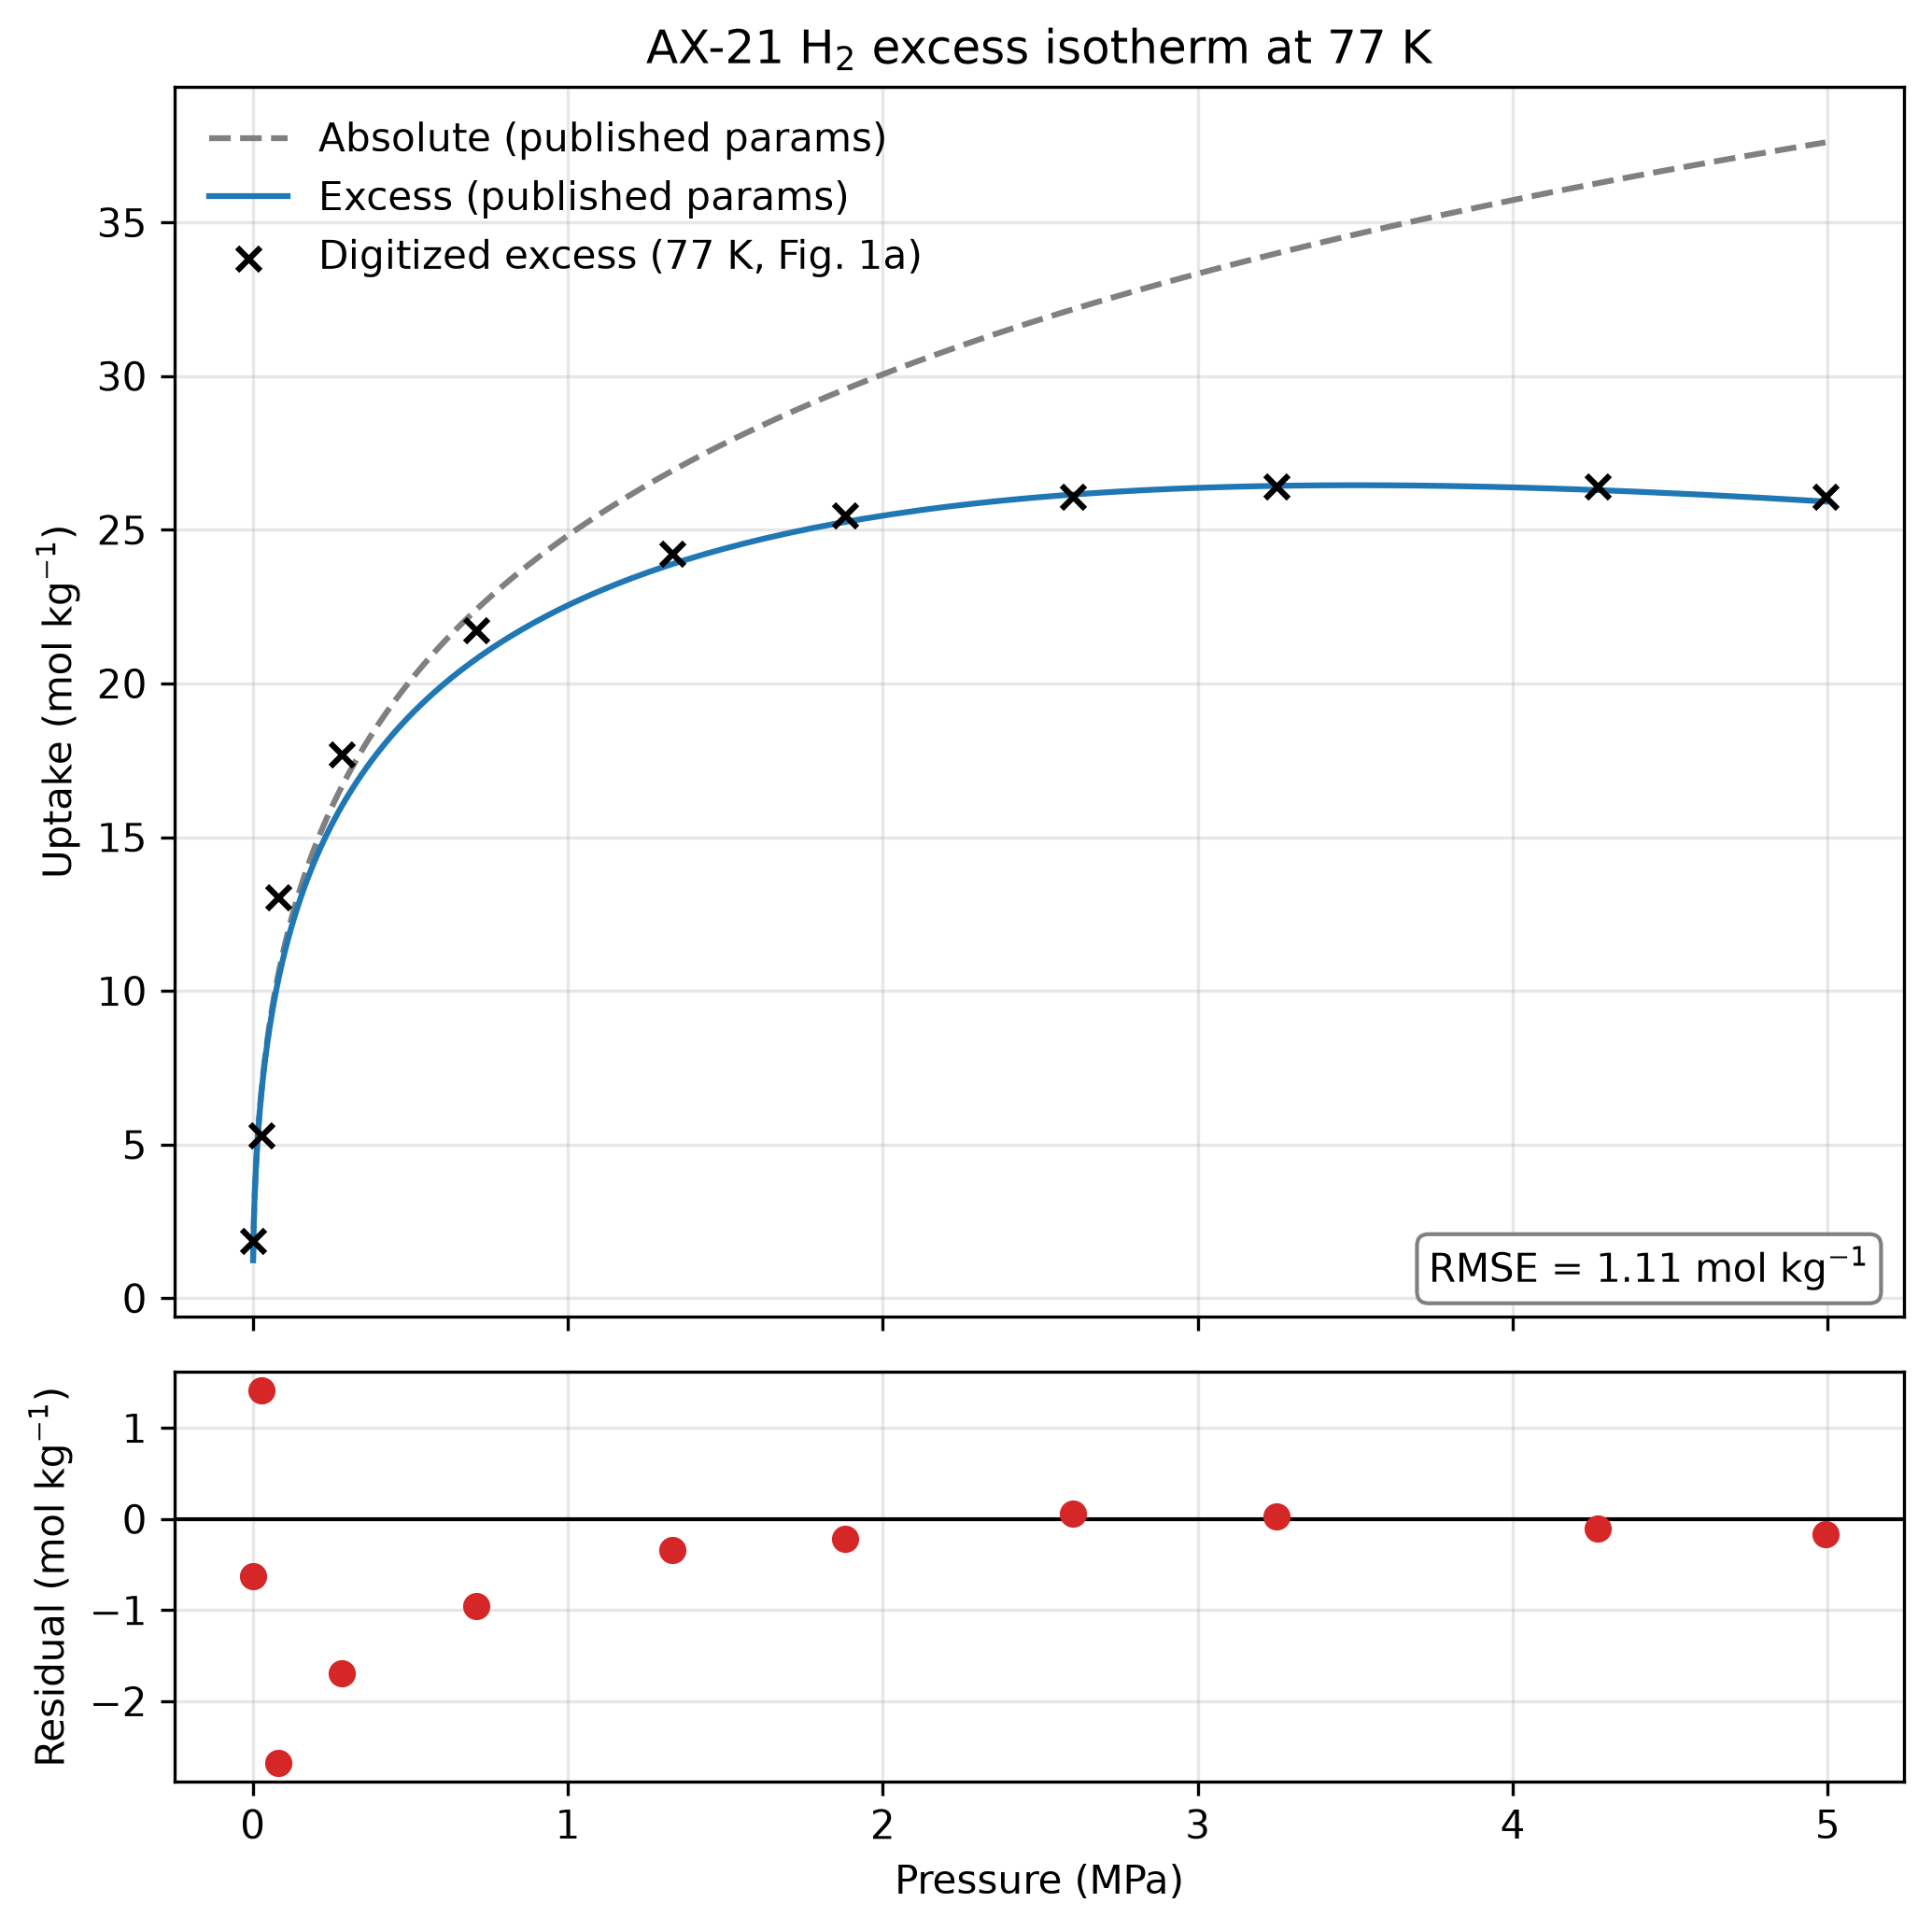
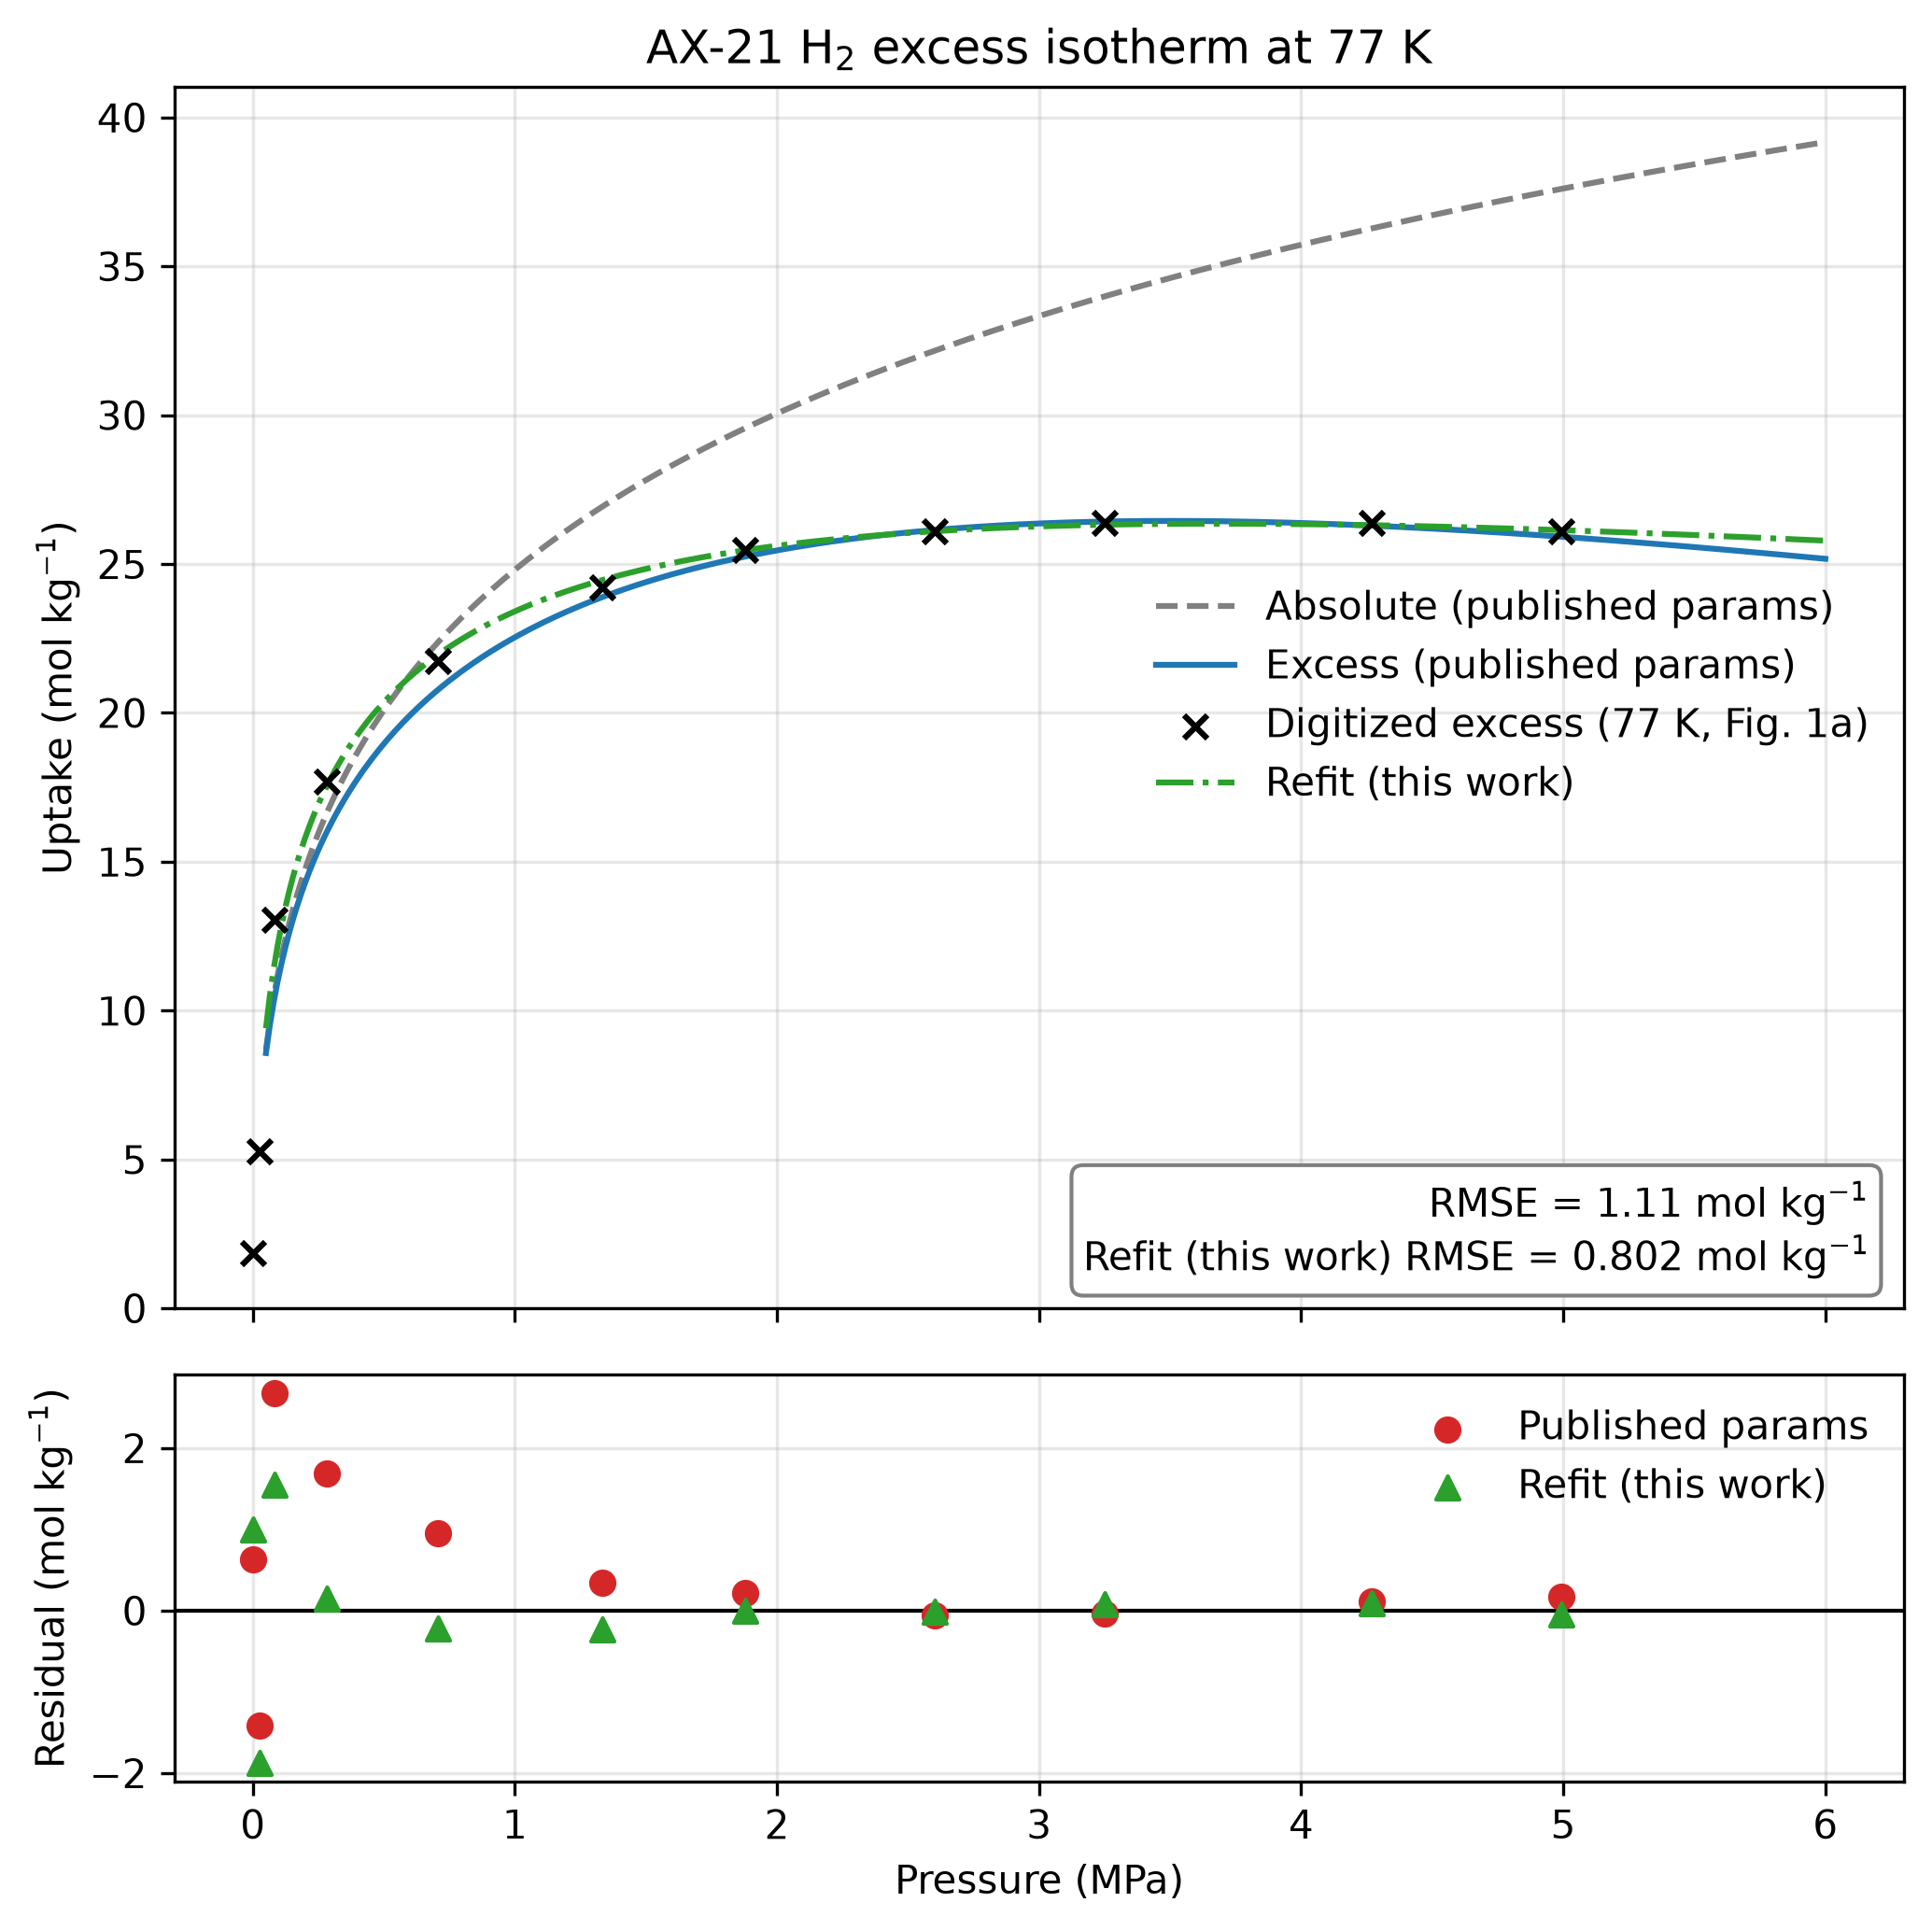
Refit AX-21 77 K isotherm, complete F2, record Gate V2 recovery FAIL with diagnosis

diff --git a/docs/validation_plan.md b/docs/validation_plan.md
@@ -31,14 +31,36 @@
 - Pre-registered threshold (UNCHANGED): RMSE < 1.5 mol/kg
 - Measured: RMSE = 1.11 mol/kg -> PASS
 - Excess-maximum gated test (tests/test_isotherm.py, @pytest.mark.validation): green via `pytest -m validation`
-- Author: Avin (Class-A).
+  ### Gate V2 — parameter recovery (pre-registered 2026-07-02). 
+  Beta fixed at 18.9 J/(mol·K) (single-T: alpha, beta enter only as alpha+beta·T). PASS iff n_max in 53.7–89.5 mol/kg, alpha in 2156–4004 J/mol, v_a in 9.30e-4–1.93e-3 m³/kg, log10(p0/Pa) in 8.467–9.867, and refit RMSE ≤ Day 7 published-parameter RMSE. 
+  Verdict (2026-07-02): FAIL. Recovered n_max 29.9 mol/kg (band 53.7–89.5), alpha 1705 J/mol
+(band 2156–4004), log10(p0/Pa) 7.000 — the imposed lower fit bound (band 8.467–9.867),
+v_a 3.83e-4 m³/kg (band 9.30e-4–1.93e-3): all four outside the pre-registered bands. The
+RMSE criterion alone passed (0.802 ≤ 1.109 mol/kg). Bands unchanged.
+Interpretation: implementation error is excluded — synthetic-data tests recover known
+parameters within 2σ, and the refit RMSE improves on the published-parameter RMSE as it
+structurally must. The failure is a property of the data: with 11 points on a single 77 K
+isotherm the four-parameter likelihood is a ridge (pairwise correlations 0.91–0.99,
+cond(JᵀJ) ≈ 1e14, anticipated in model_derivations §4.4), and the optimizer, started at
+the published values, descended it to a corner solution at the p0 bound, gaining
+~0.3 mol/kg RMSE mostly at the low-pressure knee. Reported 1σ values are additionally
+invalid at an active bound. The gate establishes practical non-identifiability of the
+individual parameters from one isotherm; the curve is identifiable (part 1 PASS), the
+parameter vector is not.
+Post-hoc diagnostic (labeled, no band applied): with p0 also fixed at the published
+1.47e9 Pa, the refit recovers n_max 67.8 mol/kg (−5.3%), alpha 3266 J/mol (+6.0%),
+v_a 1.42e-3 m³/kg (−0.5%), RMSE 0.907 mol/kg — supporting the ridge explanation: pin the
+flattest direction and the remaining parameters return to near-published values.
+Consequence logged for Week 5: this single-isotherm covariance cannot naively seed the
+material-parameter Monte Carlo; candidate resolutions (fixed-p0 conditional covariance,
+published multi-temperature information) recorded as an open question.
 
-   ## Gate V3 — System model
+  ## Gate V3 — System model
    Target: my system GC and VC reproduce the published MOF-5 cryo-adsorbent system (HSECoE/NREL).
    Envelope: fill 77 K / 100 bar, discharge 160 K / 5 bar; 5.6 kg usable H2 basis.
    Pass: |my GC - published GC| / published GC <= 15%  AND  the same for VC.
    Rationale: system models legitimately differ in balance-of-plant detail; 15% is the agreement band.
 
-   ## Gate V4 — Uncertainty & sensitivity machinery
+  ## Gate V4 — Uncertainty & sensitivity machinery
    Target 1: Monte Carlo reproduces an analytic linear-Gaussian propagation within Monte Carlo error.
    Target 2: Sobol indices on the Ishigami test function match published values within 5%.